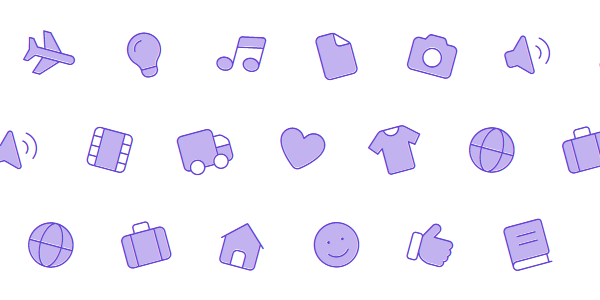
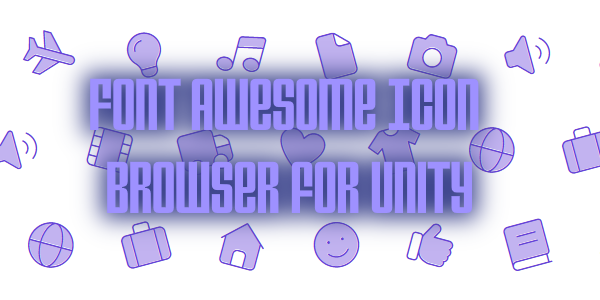
Detect and download latest FontAwesome Free

diff --git a/README.md b/README.md
@@ -2,6 +2,8 @@
 
 This package adds a Unity editor workflow for browsing Font Awesome icons and inserting them into TextMeshPro components.
 
+![Banner](Documentation/images/OpenUpmCover.png) 
+
 The package is built around a searchable icon browser window and a small runtime helper for duotone icons.
 
 ![Screenshot](Documentation/images/Screenshot.png) 
@@ -86,14 +88,12 @@ This is useful if you keep Font Awesome in a custom folder or want to point at a
 
 ## Installing Font Awesome
 
-If Font Awesome content is not found in the project Assets folder, this utility can automatically download a pinned installer for:
-
-`https://use.fontawesome.com/releases/v7.2.0/fontawesome-free-7.2.0-desktop.zip`
+If Font Awesome content is not found in the project Assets folder, this utility can automatically identify and download the latest Font Awesome Free release. If it fails to find the latest it will fall back to `https://use.fontawesome.com/releases/v7.2.0/fontawesome-free-7.2.0-desktop.zip`, which is the latest at time of release.
 
 The installer:
 
 - downloads the zip to a temp location
-- extracts only the needed files into `Assets/Fonts/fontawesome-free-7.2.0-desktop`
+- extracts only the needed files into `Assets/Fonts/fontawesome-free-{version}-desktop`
 - cleans up temp zip afterward
 - generates TMP SDF assets from the installed OTF files
 
